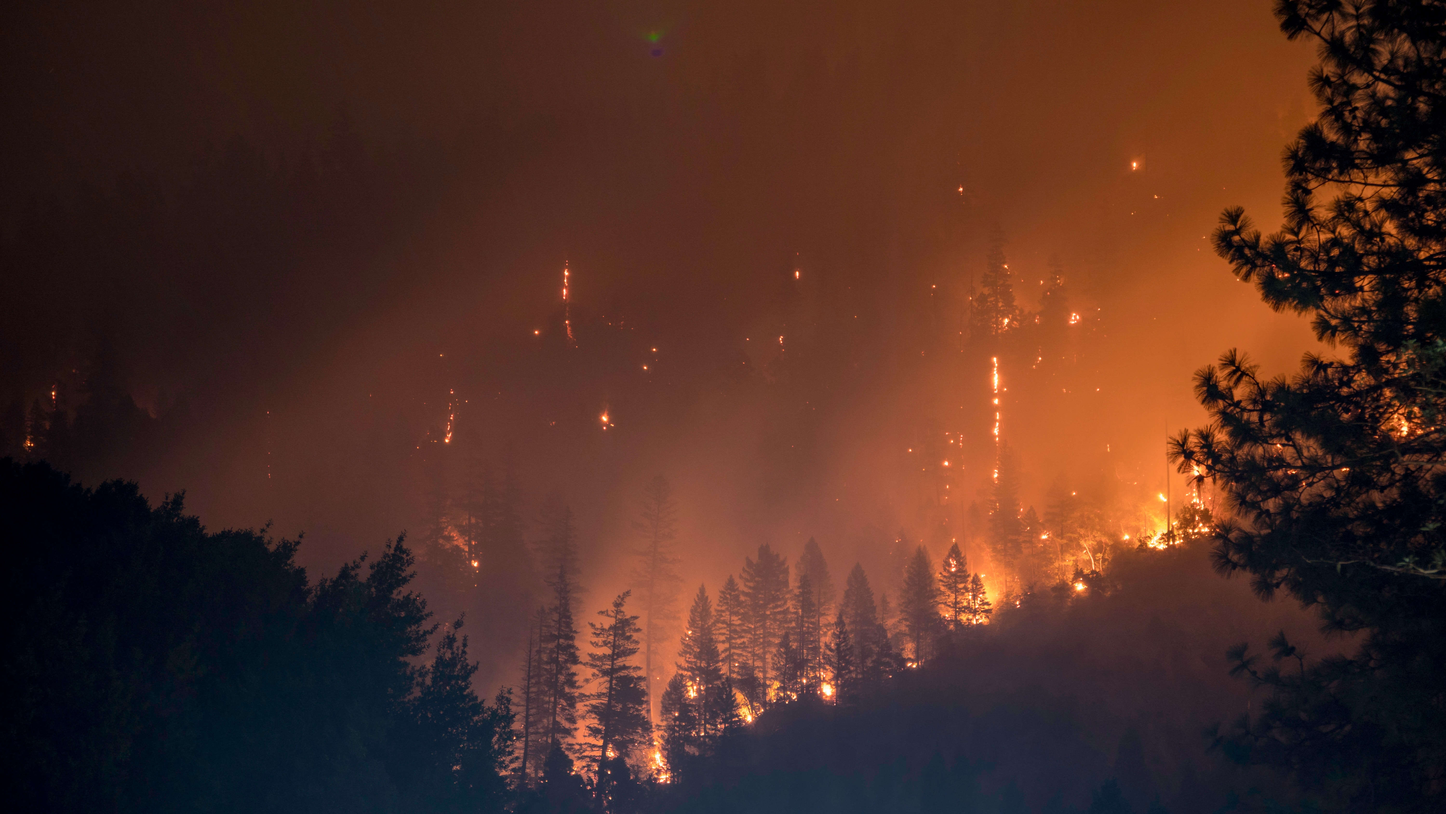
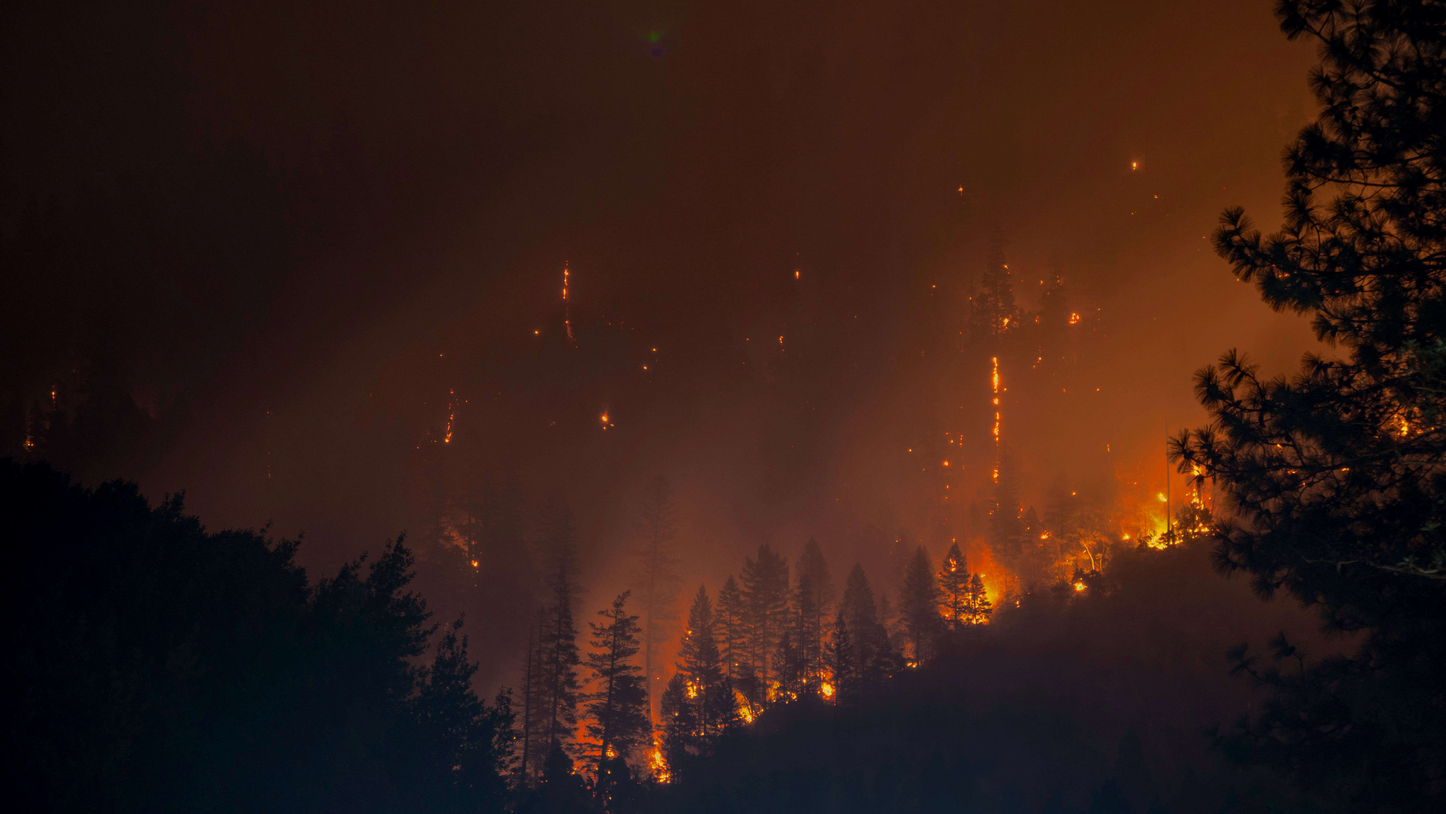
added project-wildfire content

diff --git a/project-wildfire.html b/project-wildfire.html
@@ -17,14 +17,30 @@
 
     <!-- Header -->
     <header id="header">
-        <h1 style="margin: 0;">Project Wildfire</h1>
-        <p>More information to come...
-            <br />
+        <h1>Project Wildfire</h1>
+        <p>
+            Resolute Labs is developing an advanced situational awareness system for increasing wildland firefighter <strong>safety</strong> and <strong>effectiveness</strong>.
+            <br /> </p>
+
+        <p>
+            We are combining long-range digital radio, fire modeling and prediction AI,<br/> modern user interfaces, and autonomous long-endurance UAS technology <br/> to improve emergency response.
         </p>
         <!-- <img src="images/resolute.png" /> -->
         <!-- <p>your next big thing. Brought to you by <a href="http://html5up.net">HTML5 UP</a>.</p> -->
     </header>
 
+
+
+    <div class="footer">
+        <p style="background: none; font-size: 90%; font-weight:900;">Want to partner with us?</p>
+
+        <div class="footer-content" style="margin: auto;width: 90px; display:block; position:unset;">
+            <!-- <p style="margin: -3px 0 0 10px; font-weight: bold;">Want to partner with us?</p> -->
+            <a href="https://www.linkedin.com/company/resolute-labs-io/" target="_blank" class="icon fa-lg fa-linkedin"><span class="label">LinkedIn</span></a>
+            <a href="mailto:info@resolutelabs.io?Subject=Interest%20in%20Resolute%20Labs" class="icon fa-lg fa-envelope-o"><span class="label">Email</span></a>
+
+        </div>
+    </div>
     <!-- Signup Form -->
     <!-- <form id="signup-form" method="post" action="#">
 				<input type="email" name="email" id="email" placeholder="Email Address" />

diff --git a/assets/css/main.css b/assets/css/main.css
@@ -25,8 +25,24 @@ body {
 }
 
 .project-wildfire-page {
-    background: url('../../images/wildfire-60.jpg');
+    background: url('../../images/wildfire-smaller.jpg');
     background-size: cover;
+}
+
+.project-wildfire-page h1 {
+    text-align: center;
+    margin: 0px 0px 20px 0px;
+}
+
+.project-wildfire-page p {
+    text-align: center;
+    background: rgba(0, 0, 0, 0.7);
+    border-radius: 10px;
+    font-size: 1.35em;
+    width: 80%;
+    font-size: 160%;
+    margin: 30px auto 0px auto;
+    padding: 0px 2%;
 }
 
 .footer {
@@ -34,6 +50,27 @@ body {
     width: 100%;
     bottom: 8%;
     left: 0%;
+}
+
+.project-wildfire-page .footer {
+    position: absolute;
+    bottom: 0px;
+    width: 200px;
+    border-radius: 10px 10px 0px 0px;
+    background: rgba(0, 0, 0, 0.8);
+    padding-bottom: 8px;
+    left: calc(50% - 100px);
+}
+
+.project-wildfire-page .footer p {
+    background: none;
+    font-size: 90%;
+    padding: 0px;
+    width: 100%;
+    font-weight: 900;
+    margin-top: 8px;
+}
+
 }
 
 .footer-content {
